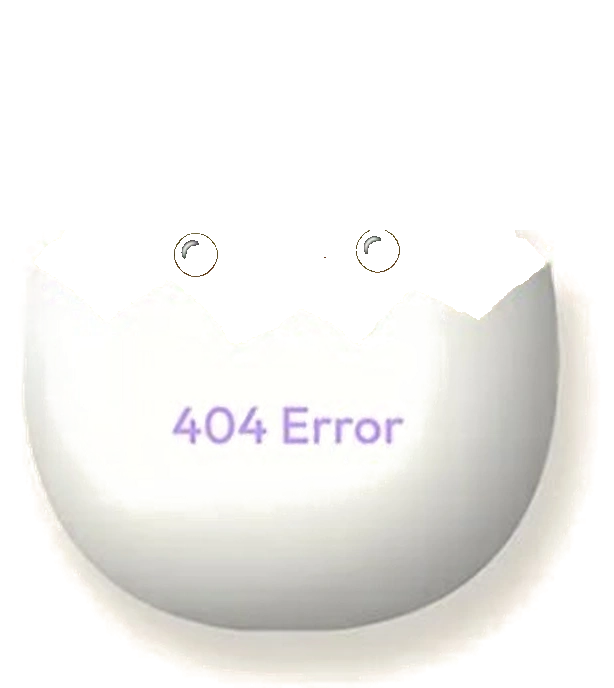
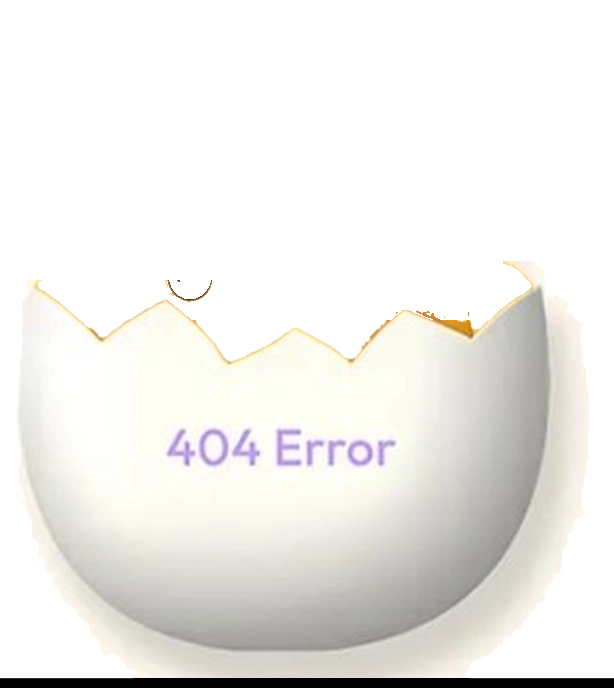
Refine 404 basket design with high clarity 3D eggs properly nestled inside

diff --git a/assets/css/style.css b/assets/css/style.css
@@ -3478,8 +3478,8 @@ body.error-page-body {
 /* Woven Basket Container */
 .basket-assembly {
   position: relative;
-  width: clamp(280px, 42vw, 440px);
-  aspect-ratio: 540 / 370;
+  width: clamp(310px, 46vw, 470px);
+  aspect-ratio: 600 / 340;
   margin: 0 auto;
   transition: transform 0.2s cubic-bezier(0.25, 1, 0.5, 1);
 }
@@ -3498,9 +3498,9 @@ body.error-page-body {
   position: absolute;
   left: 0;
   right: 0;
-  bottom: 21%;
+  bottom: 22%;
   width: 100%;
-  height: 42%;
+  height: 50%;
   z-index: 1;
   pointer-events: none;
 }
@@ -3528,71 +3528,70 @@ body.error-page-body {
   pointer-events: none;
   user-select: none;
   -webkit-user-drag: none;
-  filter: drop-shadow(0 4px 8px rgba(60, 30, 10, 0.14));
+  filter: drop-shadow(0 6px 12px rgba(50, 25, 8, 0.15));
 }
 
-/* Background Eggs (Peeking behind center egg) */
+/* Background Eggs (Nestled comfortably deep inside the basket) */
 .basket-egg.egg-back-left {
-  left: 18%;
-  bottom: 30%;
-  width: 27%;
+  left: 20%;
+  bottom: 26%;
+  width: 25%;
   aspect-ratio: 614 / 688;
   transform: rotate(-8deg);
   z-index: 2;
-  filter: brightness(0.93) contrast(0.98);
+  filter: brightness(0.94) contrast(0.98);
 }
 
 .basket-egg.egg-back-right {
-  right: 18%;
-  bottom: 30%;
-  width: 27%;
+  right: 20%;
+  bottom: 26%;
+  width: 25%;
   aspect-ratio: 614 / 688;
   transform: rotate(10deg);
   z-index: 2;
-  filter: brightness(0.93) contrast(0.98);
+  filter: brightness(0.94) contrast(0.98);
 }
 
-/* Foreground Side Eggs (Warm nestled companions) */
+/* Foreground Side Eggs (Tucked inside the basket rim & cushioned by side straw) */
 .basket-egg.egg-side-left {
-  left: 5%;
+  left: 8%;
   bottom: 17%;
-  width: 33%;
+  width: 34%;
   aspect-ratio: 614 / 688;
-  transform: rotate(-15deg);
+  transform: rotate(-14deg);
   z-index: 4;
   animation: sideEggGentleLeft 5.5s ease-in-out infinite;
 }
 
 .basket-egg.egg-side-right {
-  right: 5%;
+  right: 8%;
   bottom: 17%;
-  width: 33%;
+  width: 34%;
   aspect-ratio: 614 / 688;
-  transform: rotate(16deg);
+  transform: rotate(15deg);
   z-index: 4;
-  filter: sepia(0.08) brightness(0.98);
   animation: sideEggGentleRight 5.5s ease-in-out infinite 0.6s;
 }
 
 @keyframes sideEggGentleLeft {
   0%, 100% {
-    transform: rotate(-15deg) translateY(0);
+    transform: rotate(-14deg) translateY(0);
   }
   50% {
-    transform: rotate(-14.2deg) translateY(-2px);
+    transform: rotate(-13.4deg) translateY(-2px);
   }
 }
 
 @keyframes sideEggGentleRight {
   0%, 100% {
-    transform: rotate(16deg) translateY(0);
+    transform: rotate(15deg) translateY(0);
   }
   50% {
-    transform: rotate(15.2deg) translateY(-2px);
+    transform: rotate(14.4deg) translateY(-2px);
   }
 }
 
-/* Center Hero Hatching Egg Assembly */
+/* Center Hero Hatching Egg Assembly (Rises cleanly above the front dip) */
 .hatch-assembly {
   position: relative;
   width: clamp(170px, 26vw, 255px);
@@ -3603,7 +3602,7 @@ body.error-page-body {
 .hatch-assembly.hero-center-egg {
   position: absolute;
   left: 50%;
-  bottom: 17%;
+  bottom: 19%;
   transform: translateX(-50%);
   width: 44%;
   aspect-ratio: 614 / 688;
@@ -3619,7 +3618,7 @@ body.error-page-body {
   right: 0;
   bottom: 0;
   width: 100%;
-  height: 64%;
+  height: 66%;
   z-index: 8;
   pointer-events: none;
 }
@@ -3630,8 +3629,8 @@ body.error-page-body {
   left: 50%;
   bottom: -4px;
   transform: translateX(-50%);
-  width: 88%;
-  height: 22px;
+  width: 86%;
+  height: 24px;
   background: radial-gradient(ellipse at center, rgba(62, 34, 12, 0.28) 0%, rgba(62, 34, 12, 0.1) 50%, transparent 75%);
   border-radius: 50%;
   z-index: 0;

diff --git a/pages/404.html b/pages/404.html
@@ -30,32 +30,24 @@
   <main id="main-content" class="error-screen-container">
     
     <!-- ANIMATED BASKET WITH MULTIPLE EGGS & HATCHING DUCK -->
-    <div class="hatch-stage basket-stage" id="hatch-stage" role="img" aria-label="Multiple farm eggs in a woven rustic basket with a cute duck hatching out of the center egg" title="Click to chirp!">
+    <div class="hatch-stage basket-stage" id="hatch-stage" role="img" aria-label="Multiple farm eggs tucked inside a woven rustic basket with a cute duck hatching out of the center egg" title="Click to chirp!">
       
       <div class="basket-assembly">
         
         <!-- Layer 1: Basket Back Interior & Straw Bedding -->
         <div class="basket-back-wrap" aria-hidden="true">
-          <img src="../assets/images/404-basket-back.svg" alt="" class="basket-svg-layer" width="540" height="160">
+          <img src="../assets/images/404-basket-back.svg" alt="" class="basket-svg-layer" width="600" height="200">
         </div>
 
-        <!-- Layer 2: Eggs Cluster inside the Basket -->
+        <!-- Layer 2: Eggs Cluster inside the Basket (High Clarity 3D Eggs) -->
         <div class="basket-eggs-wrap">
           
-          <!-- Background Nestled Eggs -->
-          <div class="basket-egg egg-back-left" aria-hidden="true">
-            <img src="../assets/images/404-egg-closed.webp" alt="Nestled egg" class="egg-img" width="614" height="688">
-          </div>
-          <div class="basket-egg egg-back-right" aria-hidden="true">
-            <img src="../assets/images/404-egg-closed.webp" alt="Nestled egg" class="egg-img" width="614" height="688">
-          </div>
-
-          <!-- Foreground Side Eggs -->
+          <!-- Foreground Side Eggs (High Clarity Porcelain & Warm Farm Eggs Nestled in Basket) -->
           <div class="basket-egg egg-side-left" aria-hidden="true">
-            <img src="../assets/images/404-egg-closed.webp" alt="Nestled egg" class="egg-img" width="614" height="688">
+            <img src="../assets/images/404-egg-clean.webp" alt="Nestled farm egg" class="egg-img" width="614" height="688">
           </div>
           <div class="basket-egg egg-side-right" aria-hidden="true">
-            <img src="../assets/images/404-egg-closed.webp" alt="Nestled egg" class="egg-img" width="614" height="688">
+            <img src="../assets/images/404-egg-warm.webp" alt="Nestled warm egg" class="egg-img" width="614" height="688">
           </div>
 
           <!-- Hero Center Egg: Animated Hatching Egg & Duck Assembly -->
@@ -117,7 +109,7 @@
 
         <!-- Layer 3: Basket Front Woven Body, Braided Rim, Handles & Front Straw Tufts -->
         <div class="basket-front-wrap" aria-hidden="true">
-          <img src="../assets/images/404-basket-front.svg" alt="" class="basket-svg-layer" width="540" height="240">
+          <img src="../assets/images/404-basket-front.svg" alt="" class="basket-svg-layer" width="600" height="320">
         </div>
 
         <!-- Layer 4: Synchronized Ground Shadow -->
